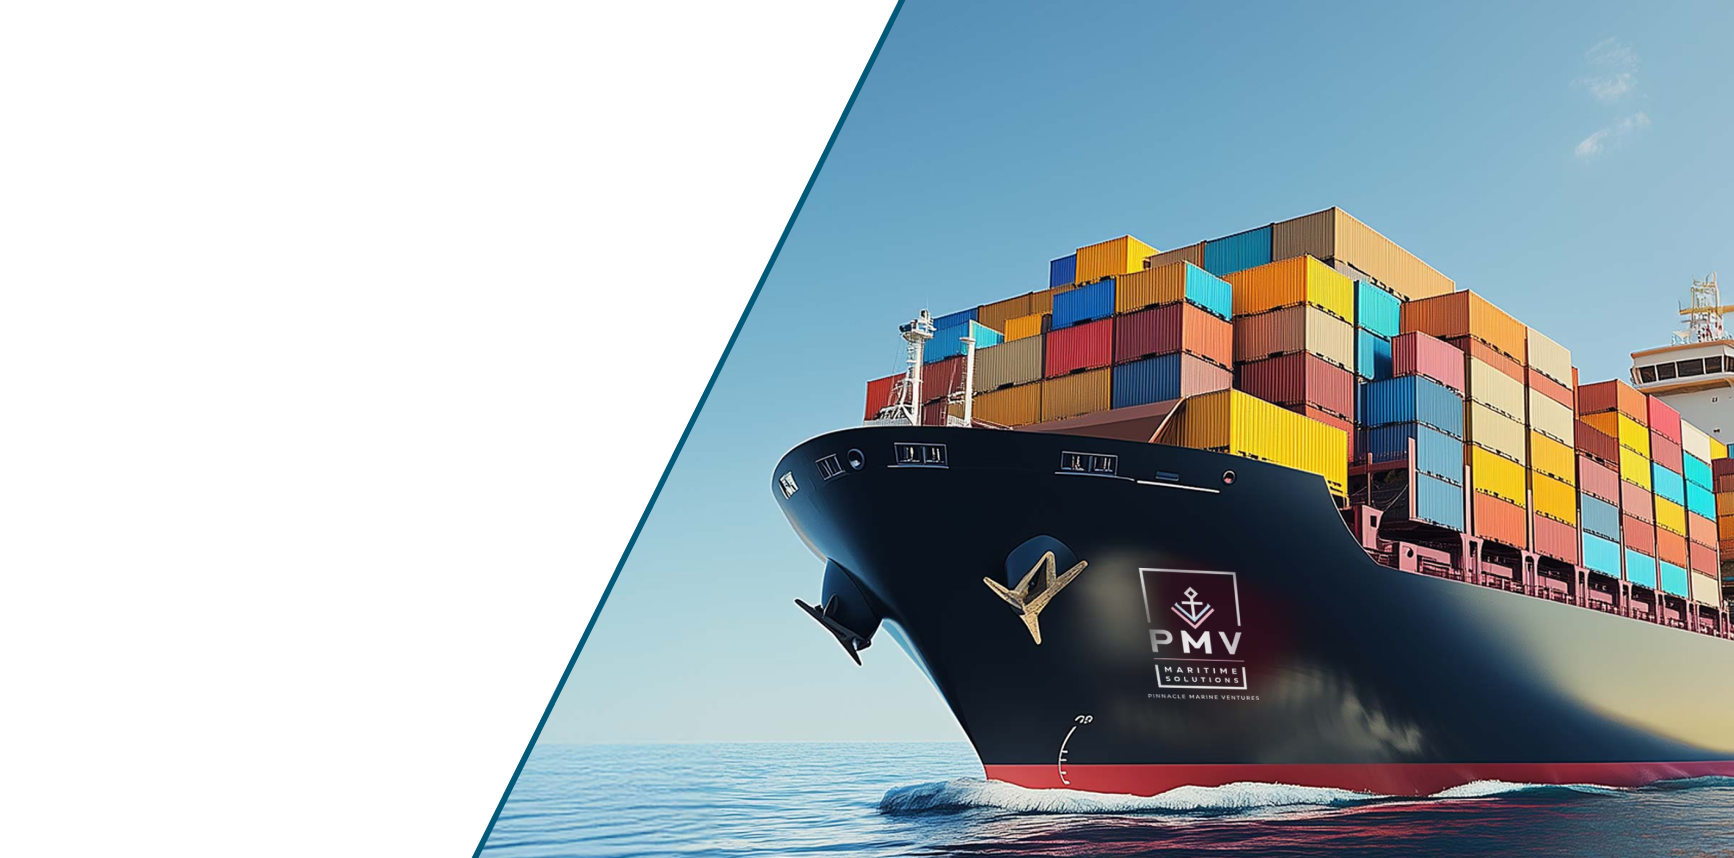
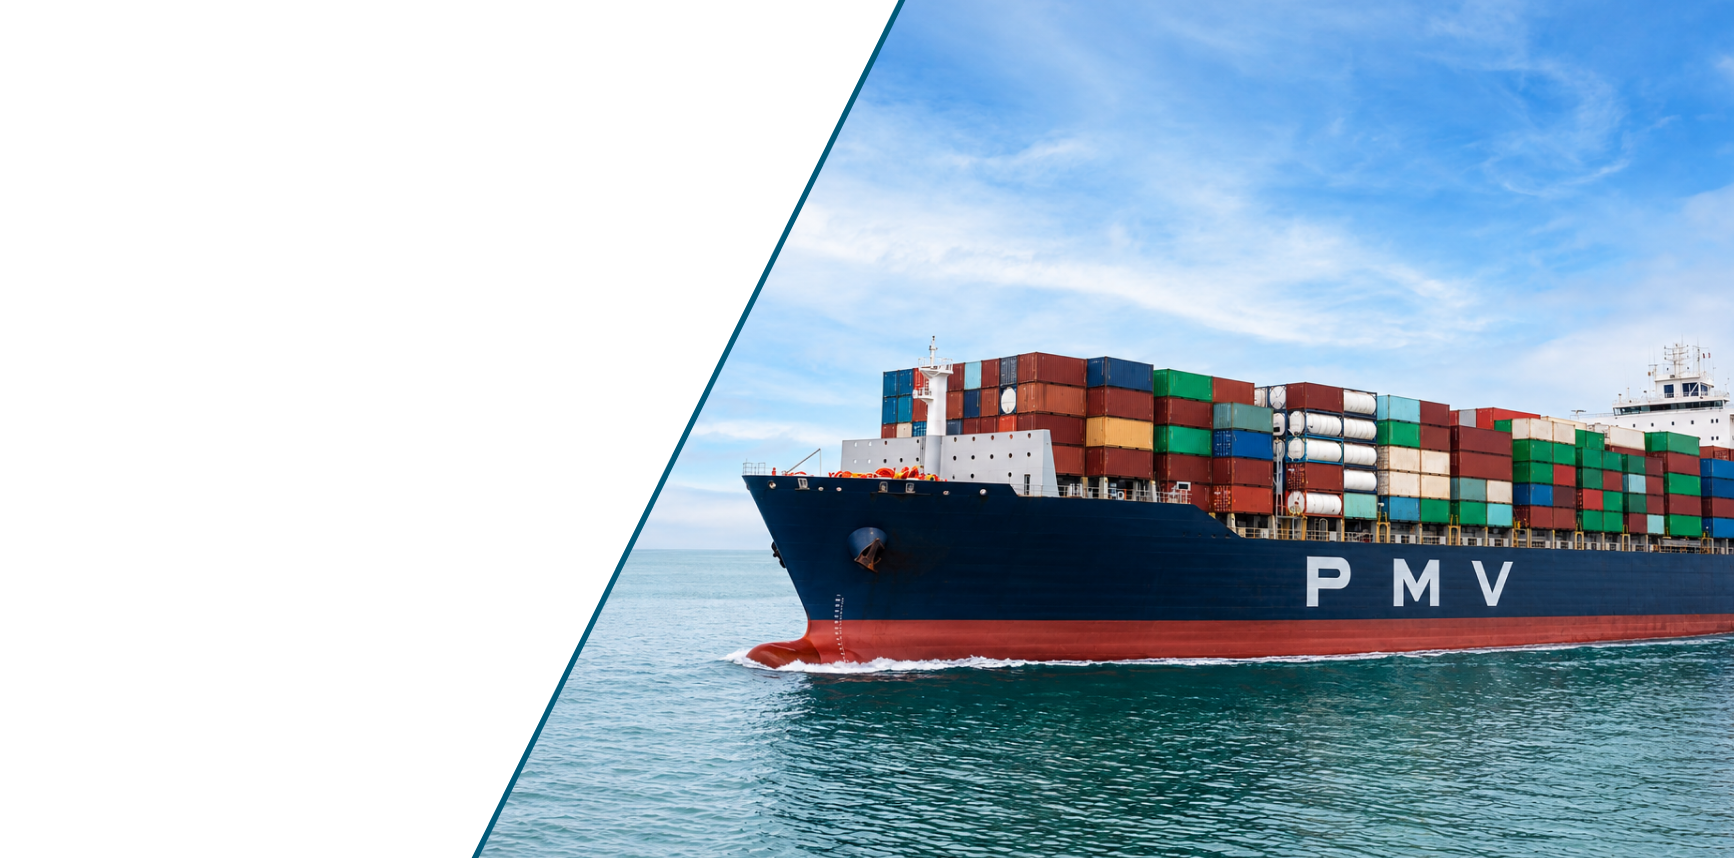
Update contact status styling and footer visuals
Replace two banner/CTA image assets and tweak UI styles: adjust contact page status pill to use primary color, group-hover white text, hover background and bolder font; increase footer icon gap on small screens and darken vertical dividers from bg-gray-200 to bg-gray-300 for better contrast. Files changed: public/assets/images/banner-ship.png, public/assets/images/cta-bg.png, src/app/contact/page.jsx, src/components/Footer/page.jsx.

diff --git a/src/components/Footer/page.jsx b/src/components/Footer/page.jsx
@@ -289,13 +289,13 @@ export default function Footer() {
               <div className="w-px h-10 bg-gray-200 hidden lg:block mx-4"></div>
 
               <div className="flex flex-wrap items-center gap-6 justify-center lg:justify-end">
-                <div className="flex flex-wrap items-center gap-2 sm:gap-3 justify-center lg:justify-end">
+                <div className="flex flex-wrap items-center gap-2 sm:gap-4 justify-center lg:justify-end">
                   <Image src={abs} alt="ABS" className="h-9 sm:h-11 w-auto object-contain" title="American Bureau of Shipping" />
-                  <div className="w-px h-8 bg-gray-200 hidden sm:block"></div>
+                  <div className="w-px h-8 bg-gray-300 hidden sm:block"></div>
                   <Image src={nimasa} alt="NIMASA" className="h-9 sm:h-11 w-auto object-contain" title="Nigerian Maritime Administration and Safety Agency" />
-                  <div className="w-px h-8 bg-gray-200 hidden sm:block"></div>
+                  <div className="w-px h-8 bg-gray-300 hidden sm:block"></div>
                   <Image src={dgshipping} alt="DG Shipping" className="h-9 sm:h-11 w-auto object-contain" title="Directorate General of Shipping" />
-                  <div className="w-px h-8 bg-gray-200 hidden sm:block"></div>
+                  <div className="w-px h-8 bg-gray-300 hidden sm:block"></div>
                   <Image src={imarest} alt="IMAREST" className="h-9 sm:h-11 w-auto object-contain" title="Institute of Marine Engineering, Science and Technology" />
                 </div>
               </div>

diff --git a/src/app/contact/page.jsx b/src/app/contact/page.jsx
@@ -444,7 +444,7 @@ export default function Contact() {
                 </div>
               </div>
               {office.status?.trim() && (
-                <div className="flex w-full justify-center text-gray-700 border-t bg-gray-50 border-gray-200 px-3 py-1 text-[13px] font-semibold">
+                <div className="flex w-full justify-center text-primary group-hover:text-white border-t bg-gray-50 group-hover:bg-primary-hover border-gray-200 px-3 py-1 text-[13px] font-bold">
                   {office.status}
                 </div>
               )}
